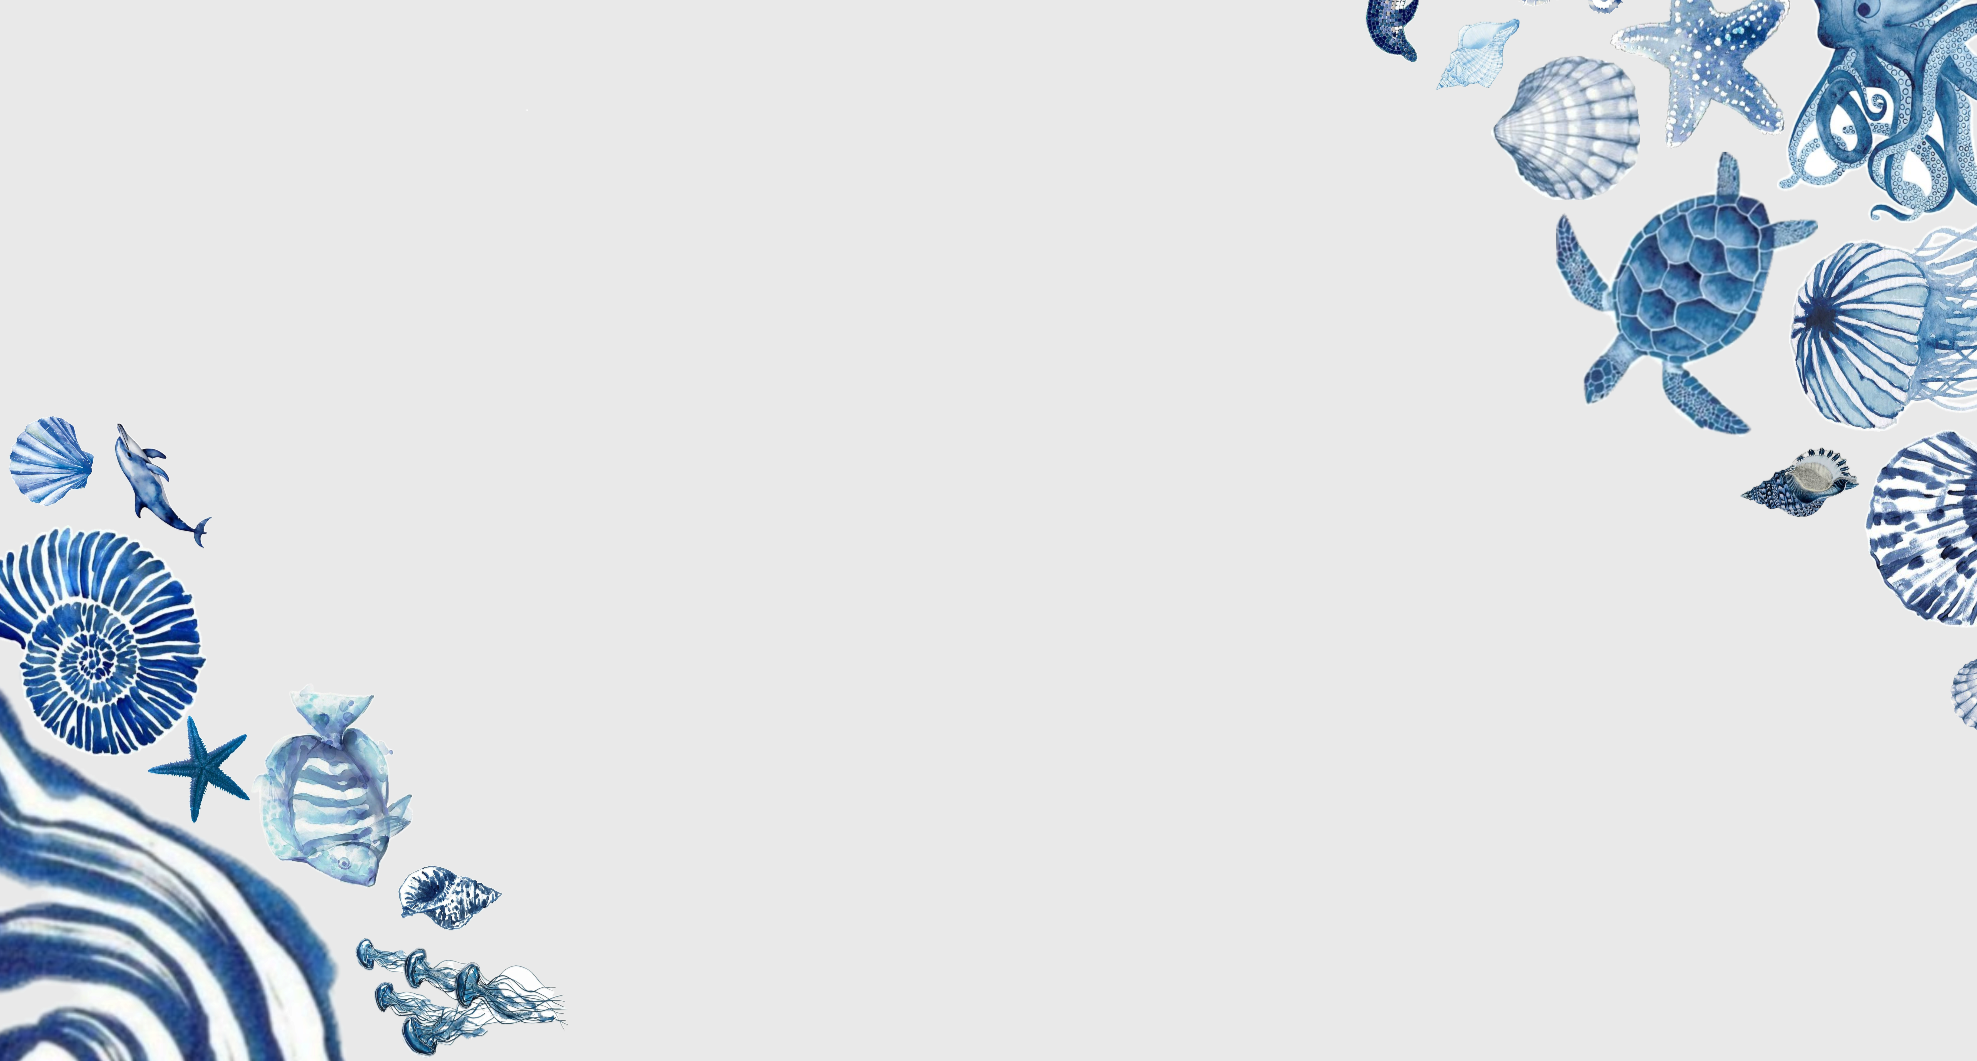
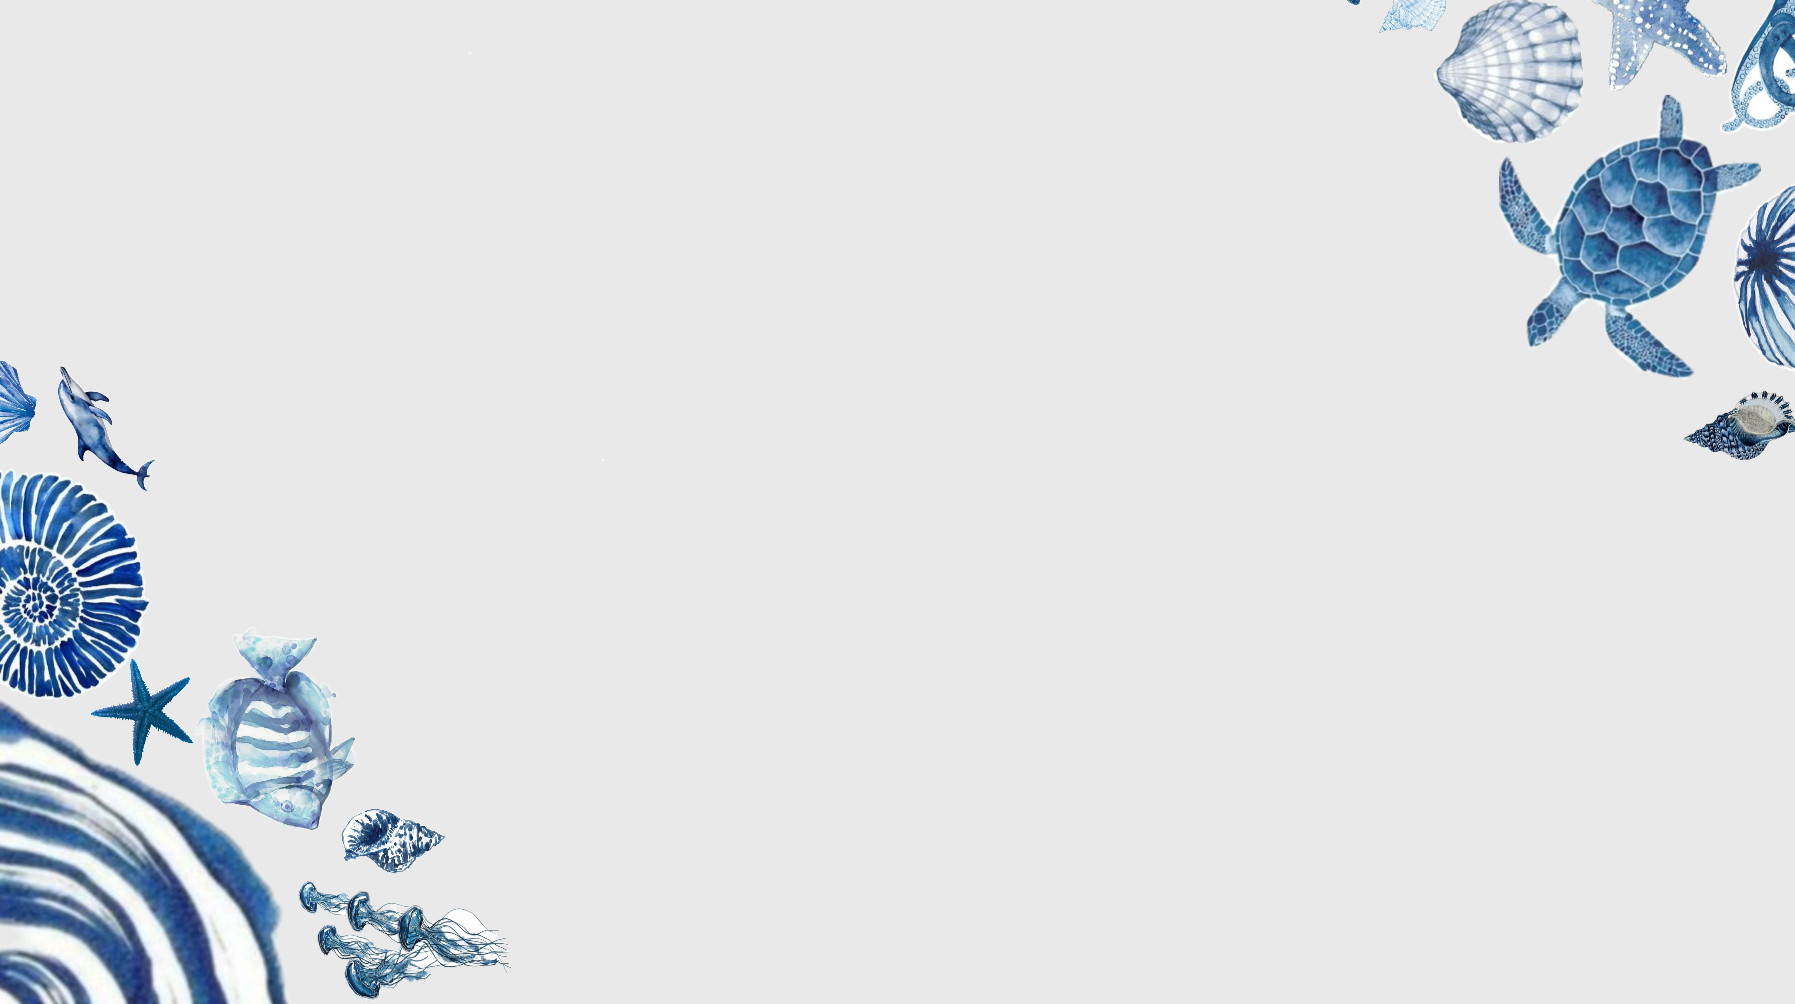
verision final para computadora

Changed region(s): [[0.6864, 0.0, 1.0, 0.5867], [0.0, 0.3705, 0.2808, 1.0], [0.9671, 0.6175, 1.0, 0.7102]]

diff --git a/css/home.css b/css/home.css
@@ -6,25 +6,29 @@
 }
 
 html, body {
-  height: 100%;
+  margin: 0;
+  padding: 0;
+  min-height: 100vh;
+  display: flex;
+  flex-direction: column;
   font-family: 'Segoe UI', sans-serif;
   background-color: #0f1d3b;
   color: #fff;
+  background-image: url("../static/img/fondo18.png");
+  background-size: cover;
+  background-position: center;
+  background-attachment: fixed;
 }
 
 /* Contenedor principal con fondo */
 .contenido-principal {
-  background-image: url("../static/img/fondo18.png");
-  background-size: cover;
-  background-position: center;
-  background-repeat: no-repeat;
-  background-attachment: fixed;
-
+  flex: 1;
   display: flex;
   flex-direction: column;
+  justify-content: center;
   align-items: center;
-  padding: 20px;
   text-align: center;
+  padding: 20px;
 }
 
 /* Imagen centrada */
@@ -77,8 +81,7 @@ html, body {
   color: #ccc;
   display: flex;
   flex-direction: column;
-  align-items: center;
-  justify-content: center;
+
   text-align: center;
   padding: 10px 0;
   font-size: 0.85rem;
@@ -104,7 +107,7 @@ html, body {
 /* Estilos para móviles */
 @media (max-width: 500px) {
   .contenido-principal {
-    background-image: url("../static/img/fondo18.png");
+    background-image: url("../static/img/fondo19.png");
     background-size: cover;
     background-position: top center;
     background-attachment: scroll;

diff --git a/index.html b/index.html
@@ -20,9 +20,9 @@
   </main>
 
   <footer class="footer">
-      <p><i class="fab fa-whatsapp"></i> 323 847 0974</p>
-      <p><i class="fab fa-facebook"></i> @Cevicherialamartina</p>
-      <p><i class="fab fa-instagram"></i> @Cevicheria613</p>
+    <p><i class="fab fa-whatsapp"></i> 323 847 0974</p>
+    <p><i class="fab fa-facebook"></i> @Cevicherialamartina</p>
+    <p><i class="fab fa-instagram"></i> @Cevicheria613</p>
   </footer>
 </body>
 </html>
